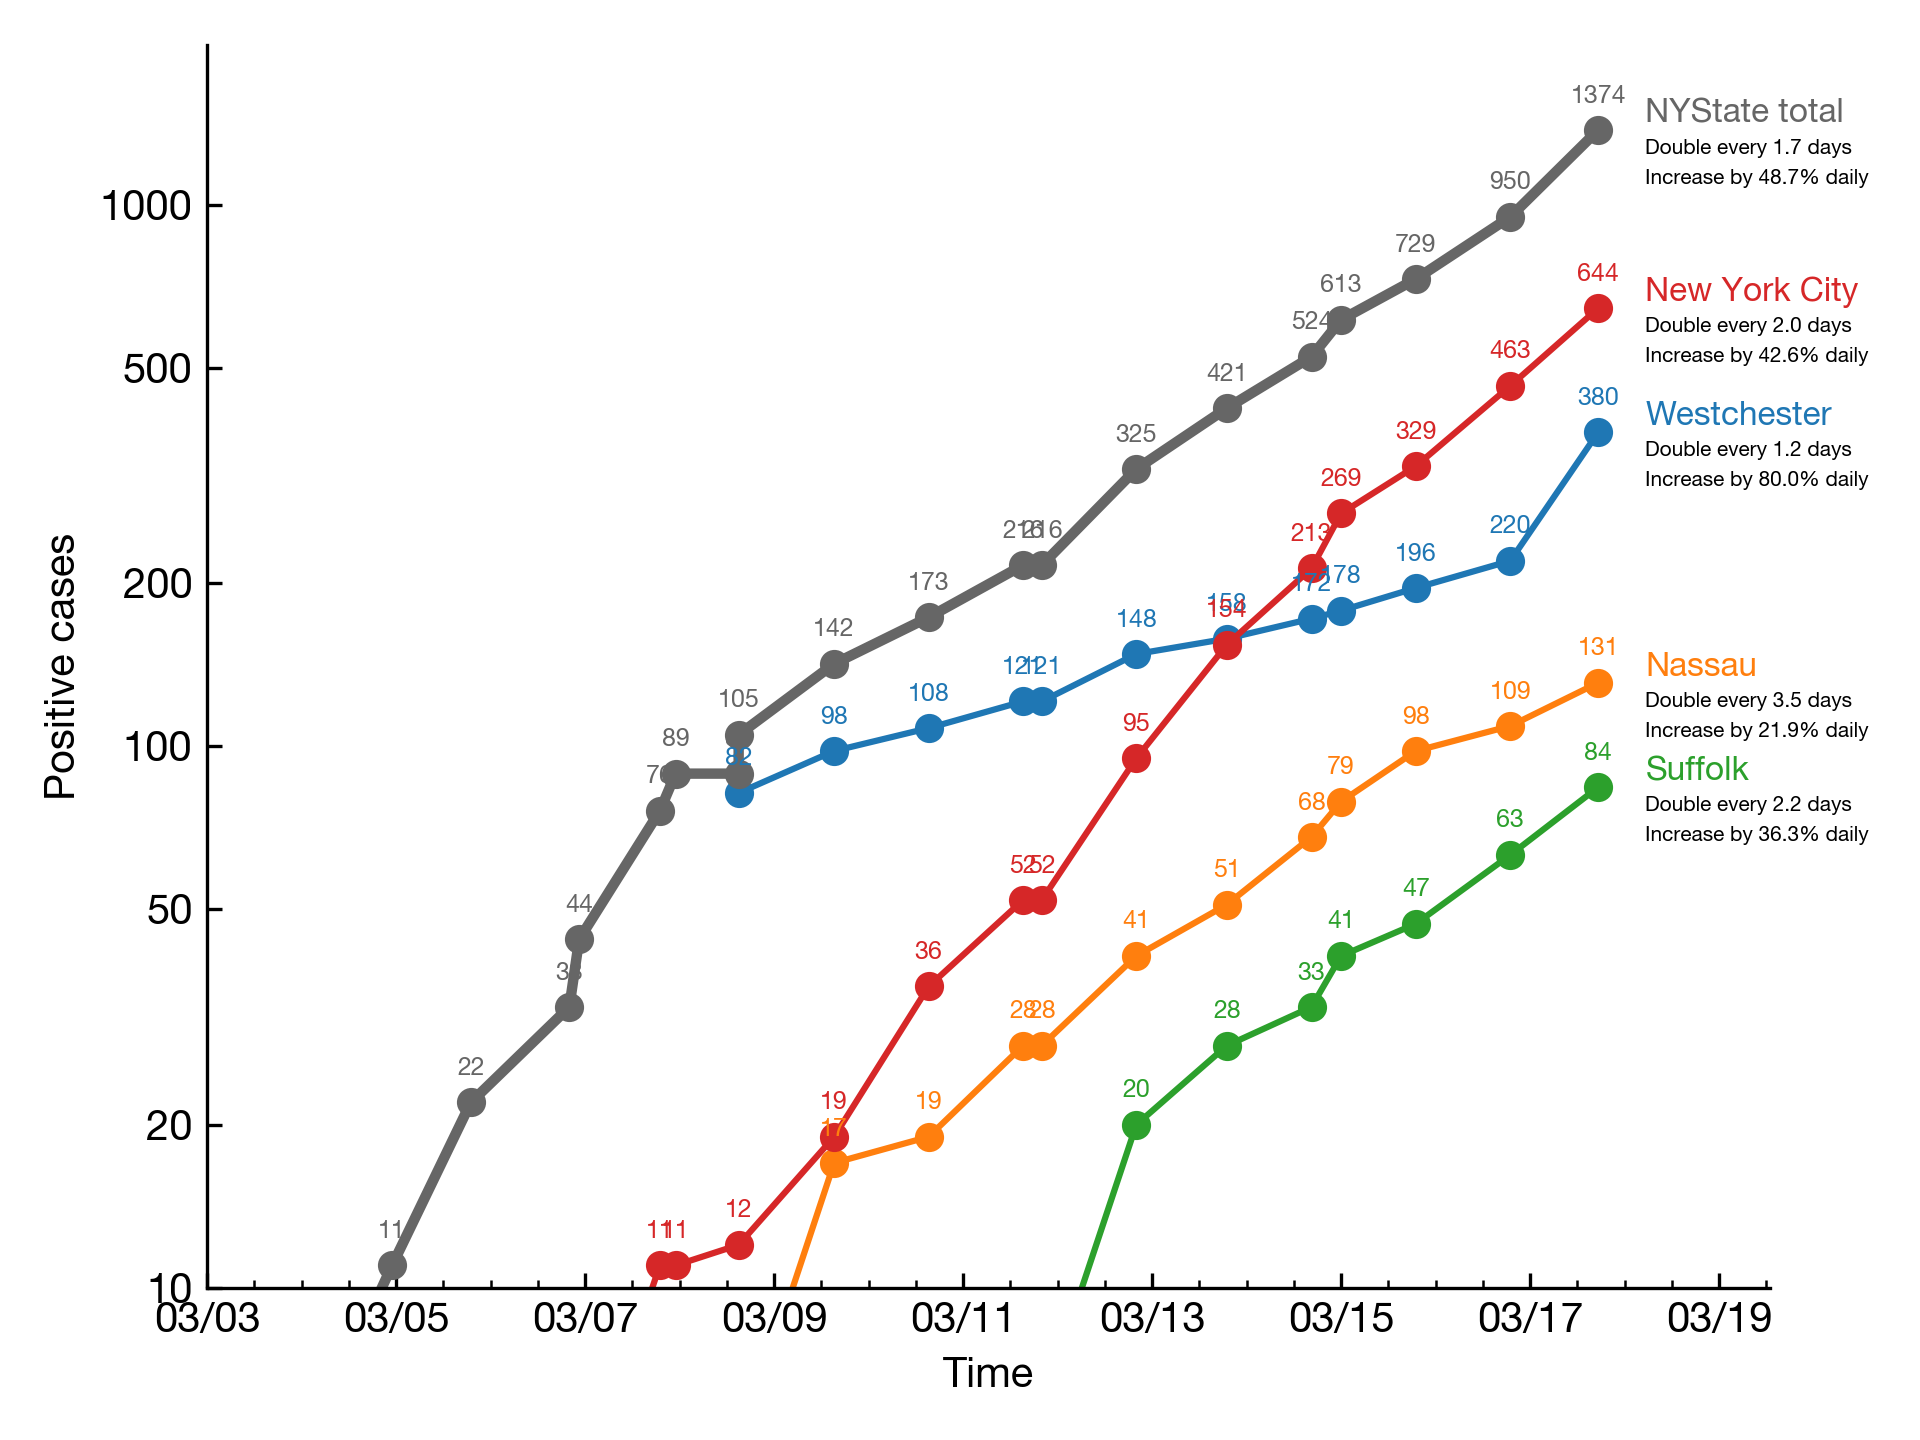
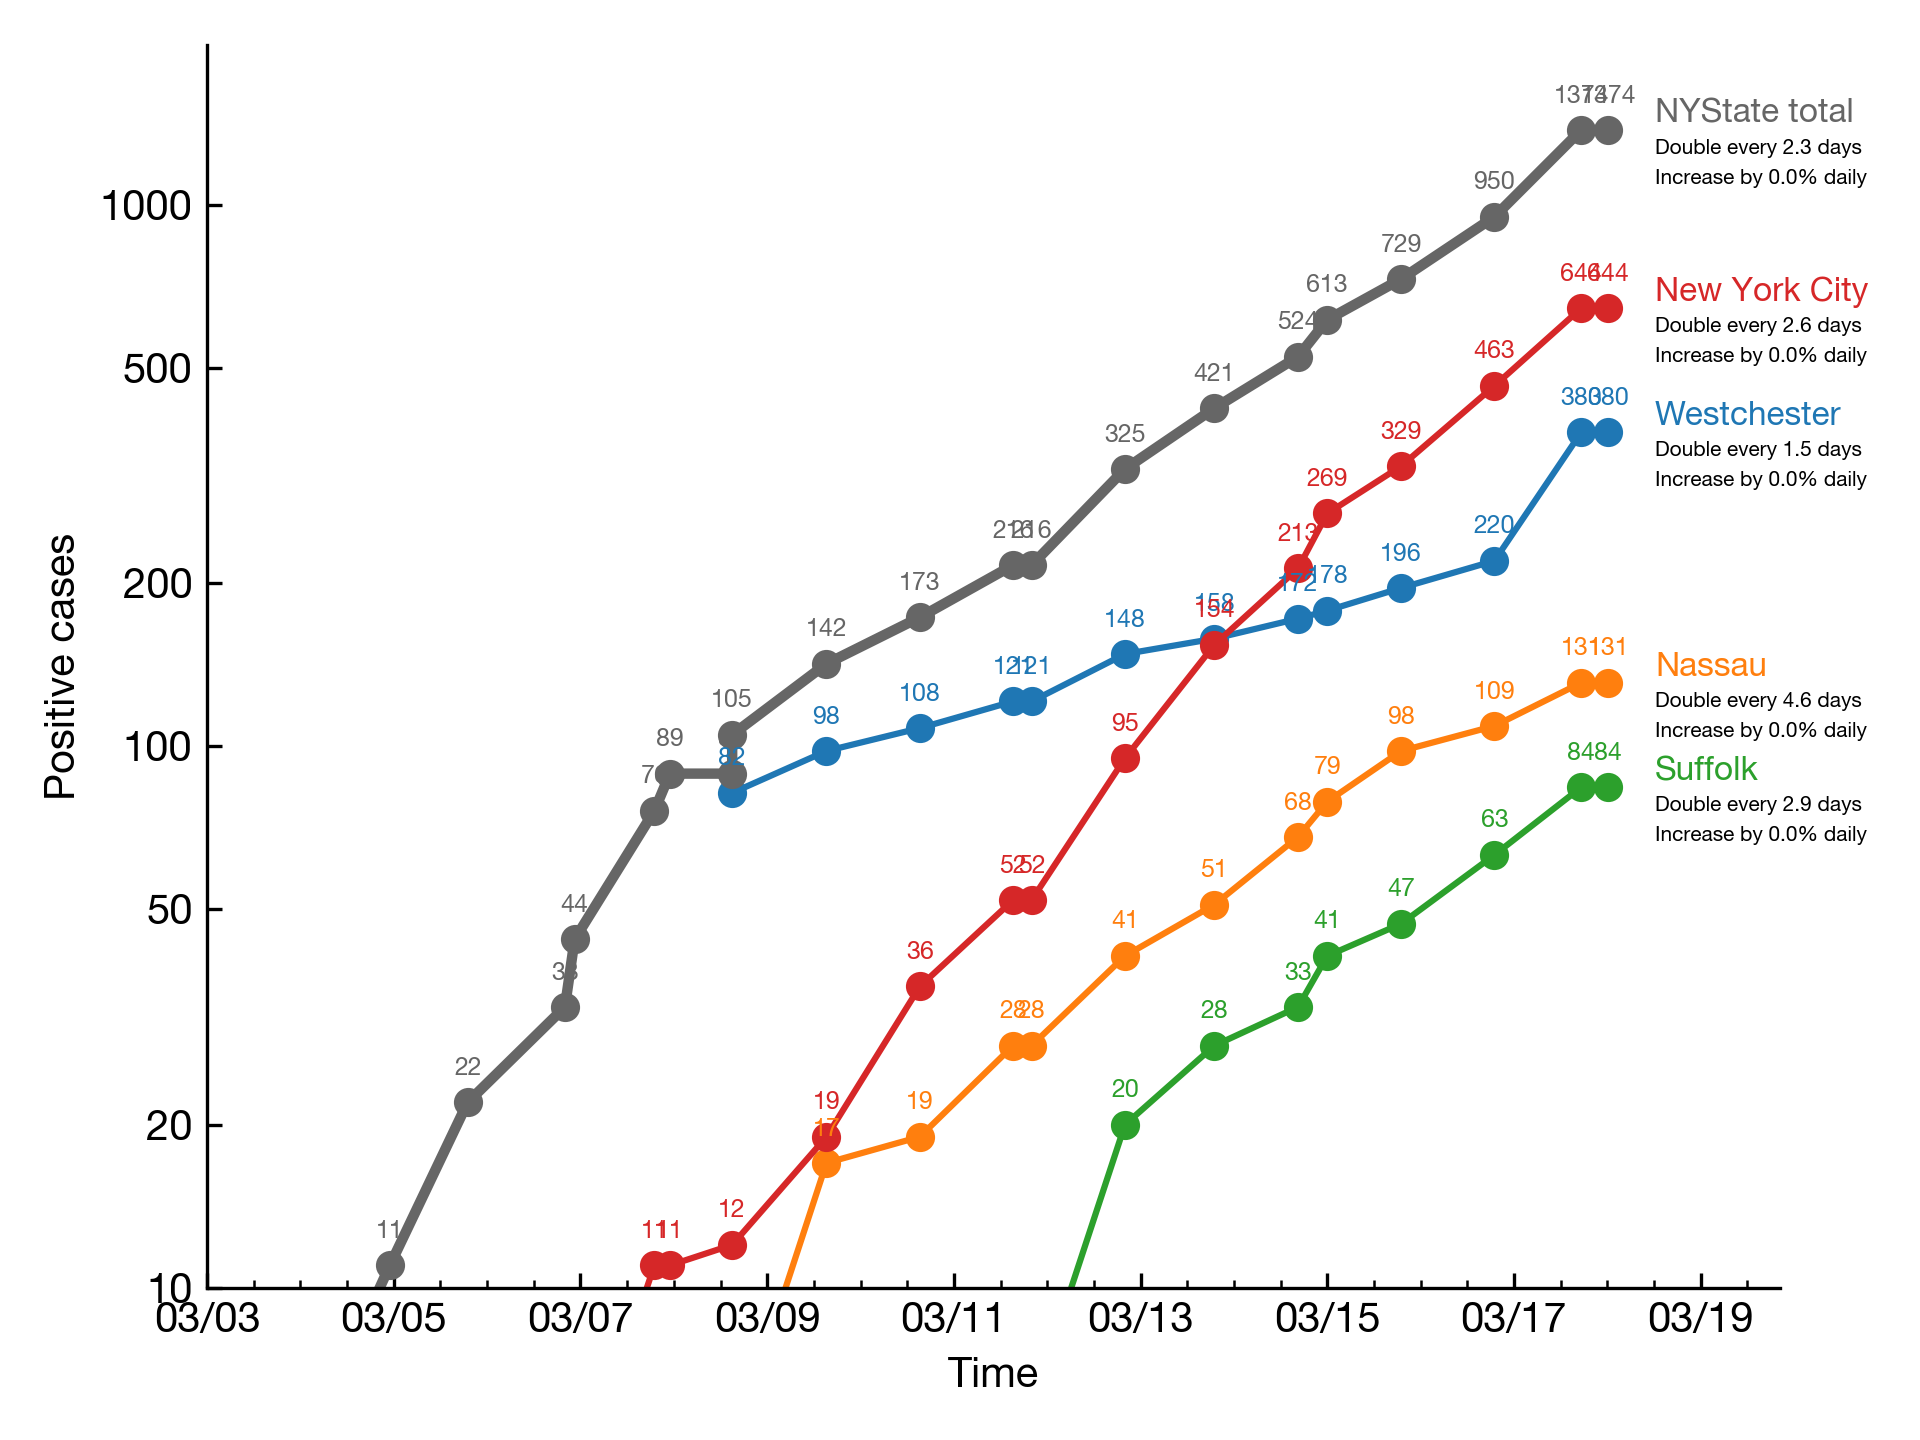
Update script and data

diff --git a/scripts/update_nyc_v5.py b/scripts/update_nyc_v5.py
@@ -9,8 +9,7 @@ def get_table(soup: BeautifulSoup):
     date_string = para[0].text
     #table = soup.select(".wysiwyg--field-webny-wysiwyg-body > table")[0]
     #cells = table.select("td")
-    print(str(para[0]))
-    count = str(para[0].select("strong")[0].text)
+    count = str(para[0].select("strong")[0].text).strip("*")
     results = [{ "key": "New York City", "value": count }]
 
     return { "date_string": date_string, "data": results }

diff --git a/scripts/plot2.py b/scripts/plot2.py
@@ -8,7 +8,7 @@ import datetime
 locale.setlocale(locale.LC_ALL, 'en_US.UTF-8')
 
 def calc_doubling_date(x_array, y_array):
-    delta = numpy.log(2) / (numpy.log(y_array[-1]) - numpy.log(y_array[-2])) * (x_array[-1] - x_array[-2])
+    delta = numpy.log(2) / (numpy.log(y_array[-1]) - numpy.log(y_array[-3])) * (x_array[-1] - x_array[-3])
     return delta.days + delta.seconds / 86400
 
 def calc_increase_rate(x_array, y_array):

diff --git a/scripts/parse_nyc_v5.py b/scripts/parse_nyc_v5.py
@@ -22,7 +22,5 @@ for item in dataset:
     item["timestr"] = str(date)
     item["timestamp"] = date.timestamp
 
-    print(item)
-
 with open("data/dataset-nyc.json", "w") as fp:
     json.dump(dataset, fp, indent=2)
